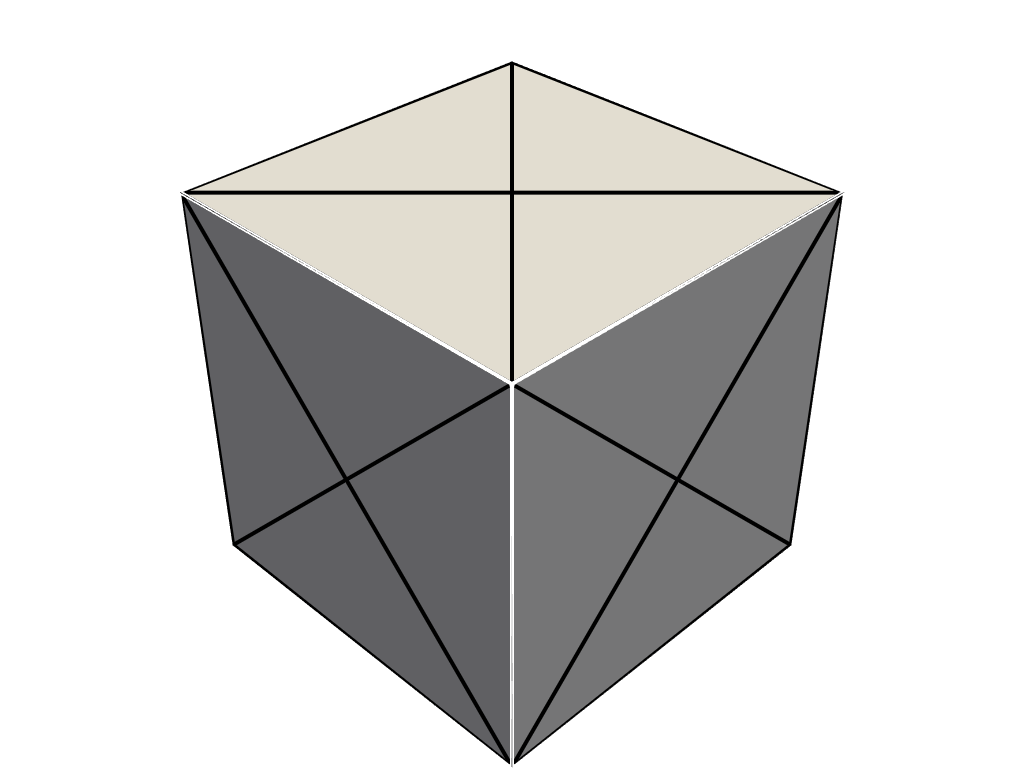
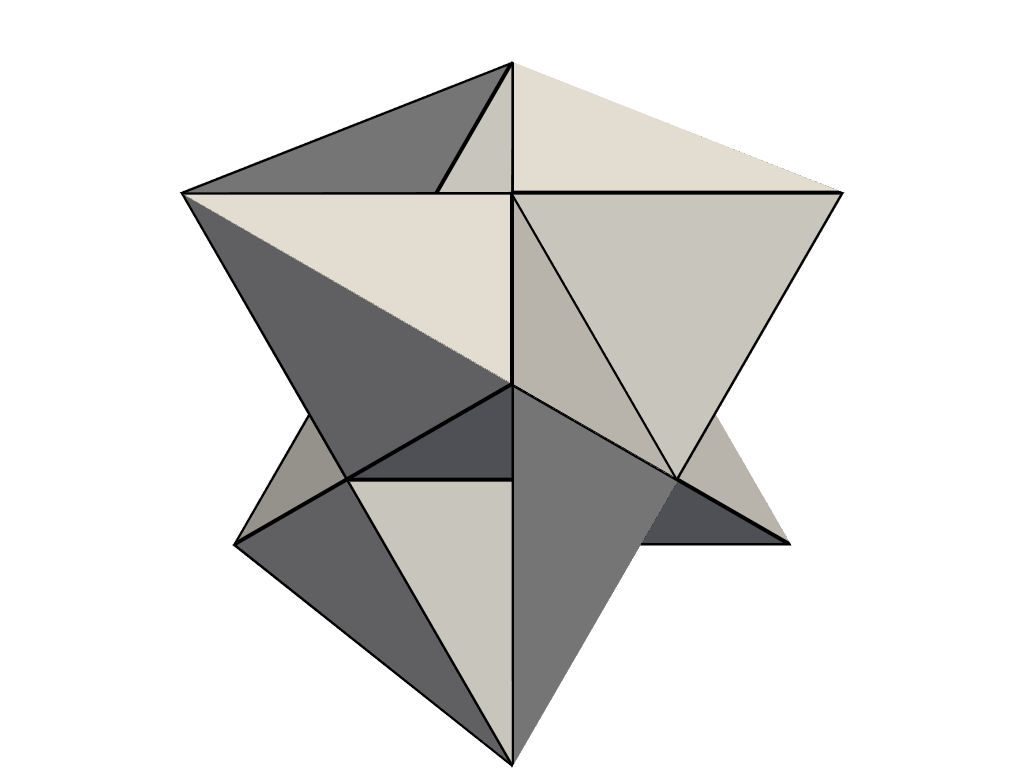
Update

diff --git a/src/pvgmsh/__init__.py b/src/pvgmsh/__init__.py
@@ -10,6 +10,7 @@ from pygmsh.helpers import extract_to_meshio
 from pvgmsh._version import __version__  # noqa: F401
 
 FRONTAL_DELAUNAY_2D = 6
+DELAUNAY_3D = 1
 
 
 def frontal_delaunay_2d(
@@ -28,7 +29,6 @@ def frontal_delaunay_2d(
         are assumed to reference points in the input point set
         (i.e. point ids are identical in the input and
         source).
-
 
     target_size : float, optional
         Target mesh size close to the points.
@@ -99,86 +99,85 @@ def frontal_delaunay_2d(
     return None
 
 
-def delaunay_3d() -> pv.PolyData:
+def delaunay_3d(
+    edge_source: pv.PolyData,
+    target_size: float | None,
+) -> pv.PolyData | None:
     """
     Delaunay 3D mesh algorithm.
 
+    Parameters
+    ----------
+    edge_source : pyvista.PolyData
+        Specify the source object used to specify constrained
+        edges and loops. If set, and lines/polygons are defined, a
+        constrained triangulation is created. The lines/polygons
+        are assumed to reference points in the input point set
+        (i.e. point ids are identical in the input and
+        source).
+
+    target_size : float
+        Target mesh size close to the points.
+
+    Returns
+    -------
+    pyvista.PolyData
+        Mesh from the 3D delaunay generation.
+
     Examples
     --------
-    >>> import gmsh
     >>> import pyvista as pv
-    >>> from pygmsh.helpers import extract_to_meshio
-    >>> from pyvista.core.utilities import fileio
-    >>> edge_source = pv.Cube()
-    >>> edge_source.points
-    pyvista_ndarray([[-0.5, -0.5, -0.5],
-                     [-0.5, -0.5,  0.5],
-                     [-0.5,  0.5,  0.5],
-                     [-0.5,  0.5, -0.5],
-                     [ 0.5, -0.5, -0.5],
-                     [ 0.5,  0.5, -0.5],
-                     [ 0.5,  0.5,  0.5],
-                     [ 0.5, -0.5,  0.5]], dtype=float32)
-    >>> edge_source.faces
-    array([4, 0, 1, 2, 3, 4, 4, 5, 6, 7, 4, 0, 4, 7, 1, 4, 3, 2, 6, 5, 4, 0,
-           3, 5, 4, 4, 1, 7, 6, 2])
-    >>> edge_source.lines
-    array([], dtype=int64)
-    >>> for i in range(10):
-    ...     continue
-    >>> gmsh.initialize()
-    >>> _ = gmsh.model.geo.add_point(0, 0, 0, 1.0, 1)
-    >>> _ = gmsh.model.geo.add_point(1, 0, 0, 1.0, 2)
-    >>> _ = gmsh.model.geo.add_point(1, 1, 0, 1.0, 3)
-    >>> _ = gmsh.model.geo.add_point(0, 1, 0, 1.0, 4)
-    >>> _ = gmsh.model.geo.add_point(0, 0, 1, 1.0, 5)
-    >>> _ = gmsh.model.geo.add_point(1, 0, 1, 1.0, 6)
-    >>> _ = gmsh.model.geo.add_point(1, 1, 1, 1.0, 7)
-    >>> _ = gmsh.model.geo.add_point(0, 1, 1, 1.0, 8)
-    >>> _ = gmsh.model.geo.add_point(1, 1, 1, 1.0, 9)
-    >>> _ = gmsh.model.geo.add_line(1, 2, 1)
-    >>> _ = gmsh.model.geo.add_line(2, 3, 2)
-    >>> _ = gmsh.model.geo.add_line(3, 4, 3)
-    >>> _ = gmsh.model.geo.add_line(4, 1, 4)
-    >>> _ = gmsh.model.geo.add_line(1, 5, 5)
-    >>> _ = gmsh.model.geo.add_line(2, 6, 6)
-    >>> _ = gmsh.model.geo.add_line(3, 7, 7)
-    >>> _ = gmsh.model.geo.add_line(4, 8, 8)
-    >>> _ = gmsh.model.geo.add_line(8, 7, 9)
-    >>> _ = gmsh.model.geo.add_line(7, 6, 10)
-    >>> _ = gmsh.model.geo.add_line(6, 5, 11)
-    >>> _ = gmsh.model.geo.add_line(5, 8, 12)
-    >>> _ = gmsh.model.geo.add_curve_loop([1, 2, 3, 4], 1)
-    >>> _ = gmsh.model.geo.add_curve_loop([3, 8, 9, -7], 3)
-    >>> _ = gmsh.model.geo.add_curve_loop([4, 5, 12, -8], 5)
-    >>> _ = gmsh.model.geo.add_curve_loop([7, 10, -6, 2], 7)
-    >>> _ = gmsh.model.geo.add_curve_loop([1, 6, 11, -5], 9)
-    >>> _ = gmsh.model.geo.add_curve_loop([9, 10, 11, 12], 11)
-    >>> _ = gmsh.model.geo.add_plane_surface([1], 1)
-    >>> _ = gmsh.model.geo.add_plane_surface([3], 2)
-    >>> _ = gmsh.model.geo.add_plane_surface([5], 3)
-    >>> _ = gmsh.model.geo.add_plane_surface([7], 4)
-    >>> _ = gmsh.model.geo.add_plane_surface([9], 5)
-    >>> _ = gmsh.model.geo.add_plane_surface([11], 6)
-    >>> _ = gmsh.model.geo.add_surface_loop([6, 2, 4, 5, 1, 3], 1)
-    >>> _ = gmsh.model.geo.add_volume([1], 1)
-    >>> gmsh.model.geo.synchronize()
-    >>> gmsh.model.mesh.generate(3)
-    >>> mesh = fileio.from_meshio(extract_to_meshio())
-    >>> mesh.clear_data()
-    >>> mesh
-    UnstructuredGrid (...)
-      N Cells:    69
-      N Points:   15
-      X Bounds:   0.000e+00, 1.000e+00
-      Y Bounds:   0.000e+00, 1.000e+00
-      Z Bounds:   0.000e+00, 1.000e+00
-      N Arrays:   0
+    >>> import pvgmsh as pm
 
-    >>> gmsh.clear()
-    >>> gmsh.finalize()
+    >>> edge_source = pv.Cube()
+    >>> mesh = pm.delaunay_3d(edge_source, target_size=1.0)
+
+    >>> mesh
+    PolyData (...)
+      N Cells:    24
+      N Points:   14
+      N Strips:   0
+      X Bounds:   -5.000e-01, 5.000e-01
+      Y Bounds:   -5.000e-01, 5.000e-01
+      Z Bounds:   -5.000e-01, 5.000e-01
+      N Arrays:   0
 
     >>> plotter = pv.Plotter(off_screen=True)
     >>> _ = plotter.add_mesh(mesh, show_edges=True, line_width=4, color="white")
     >>> plotter.show(screenshot="delaunay_3d_01.png")
     """
+    points = edge_source.points
+    faces = edge_source.regular_faces
+    bounds = edge_source.bounds
+
+    gmsh.initialize()
+    gmsh.option.set_number("Mesh.Algorithm3D", DELAUNAY_3D)
+
+    for i, point in enumerate(points):
+        id_ = i + 1
+        gmsh.model.geo.add_point(point[0], point[1], point[2], target_size, i + 1)
+
+    surface_loop = []
+    for i, face in enumerate(faces):
+        gmsh.model.geo.add_line(face[0] + 1, face[1] + 1, i * 4 + 0)
+        gmsh.model.geo.add_line(face[1] + 1, face[2] + 1, i * 4 + 1)
+        gmsh.model.geo.add_line(face[2] + 1, face[3] + 1, i * 4 + 2)
+        gmsh.model.geo.add_line(face[3] + 1, face[0] + 1, i * 4 + 3)
+        gmsh.model.geo.add_curve_loop([i * 4 + 0, i * 4 + 1, i * 4 + 2, i * 4 + 3], i + 1)
+        gmsh.model.geo.add_plane_surface([i + 1], i + 1)
+        surface_loop.append(i + 1)
+
+    gmsh.model.geo.add_surface_loop(surface_loop, 1)
+    gmsh.model.geo.add_volume([1], 1)
+
+    gmsh.model.geo.synchronize()
+    gmsh.model.mesh.generate(3)
+
+    mesh = extract_to_meshio()
+    gmsh.clear()
+    gmsh.finalize()
+
+    for cell in mesh.cells:
+        if cell.type == "tetra":
+            return pv.PolyData.from_regular_faces(mesh.points, cell.data)
+    return None
